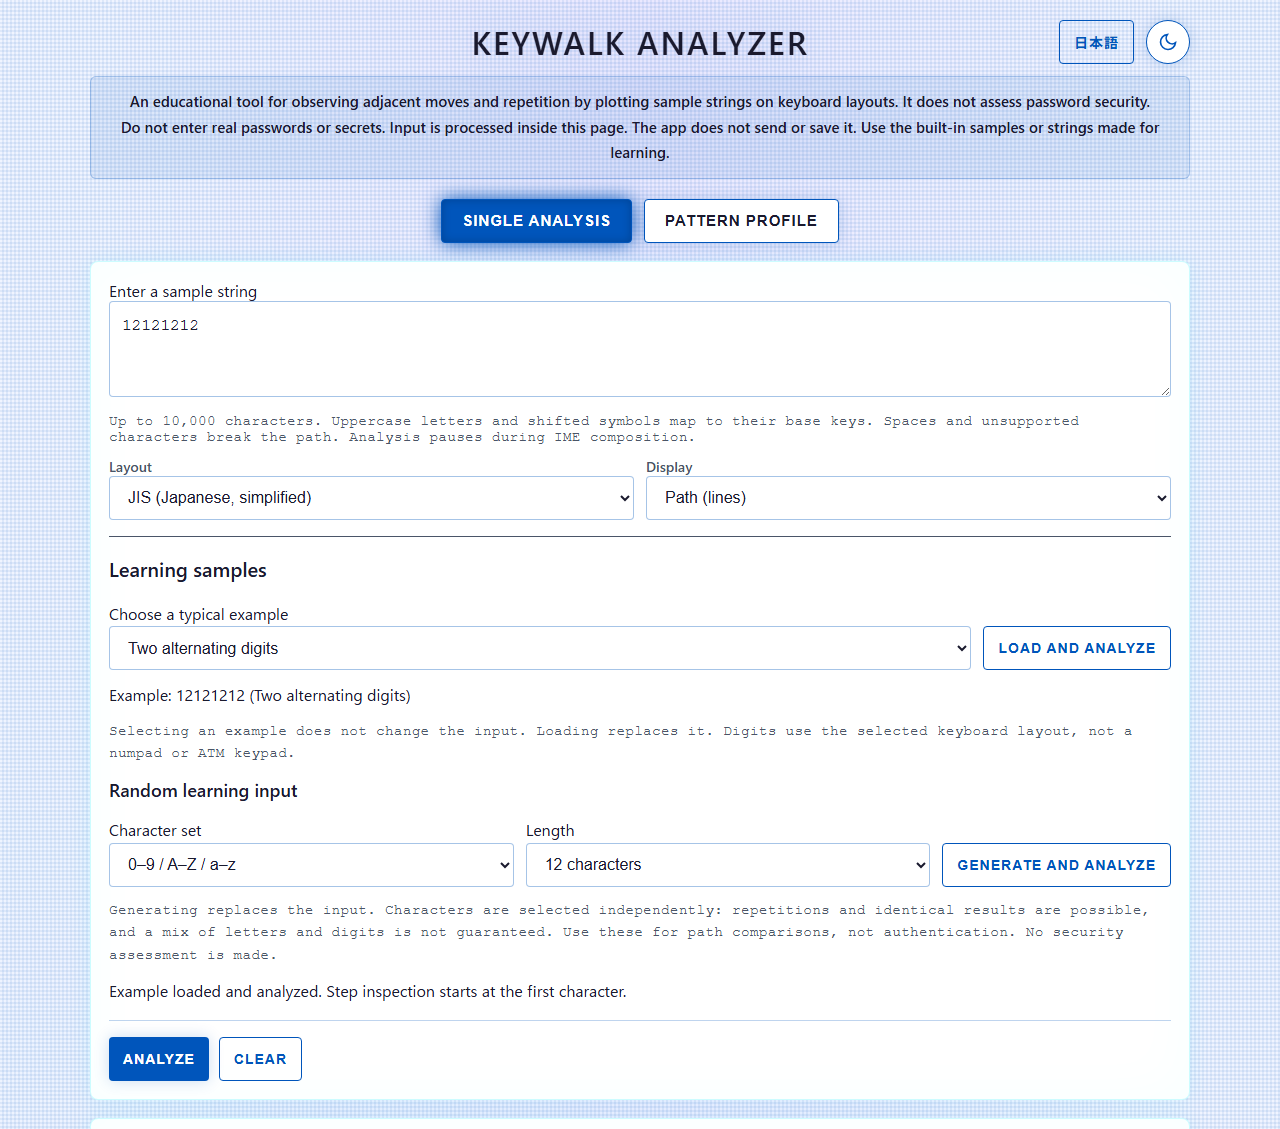
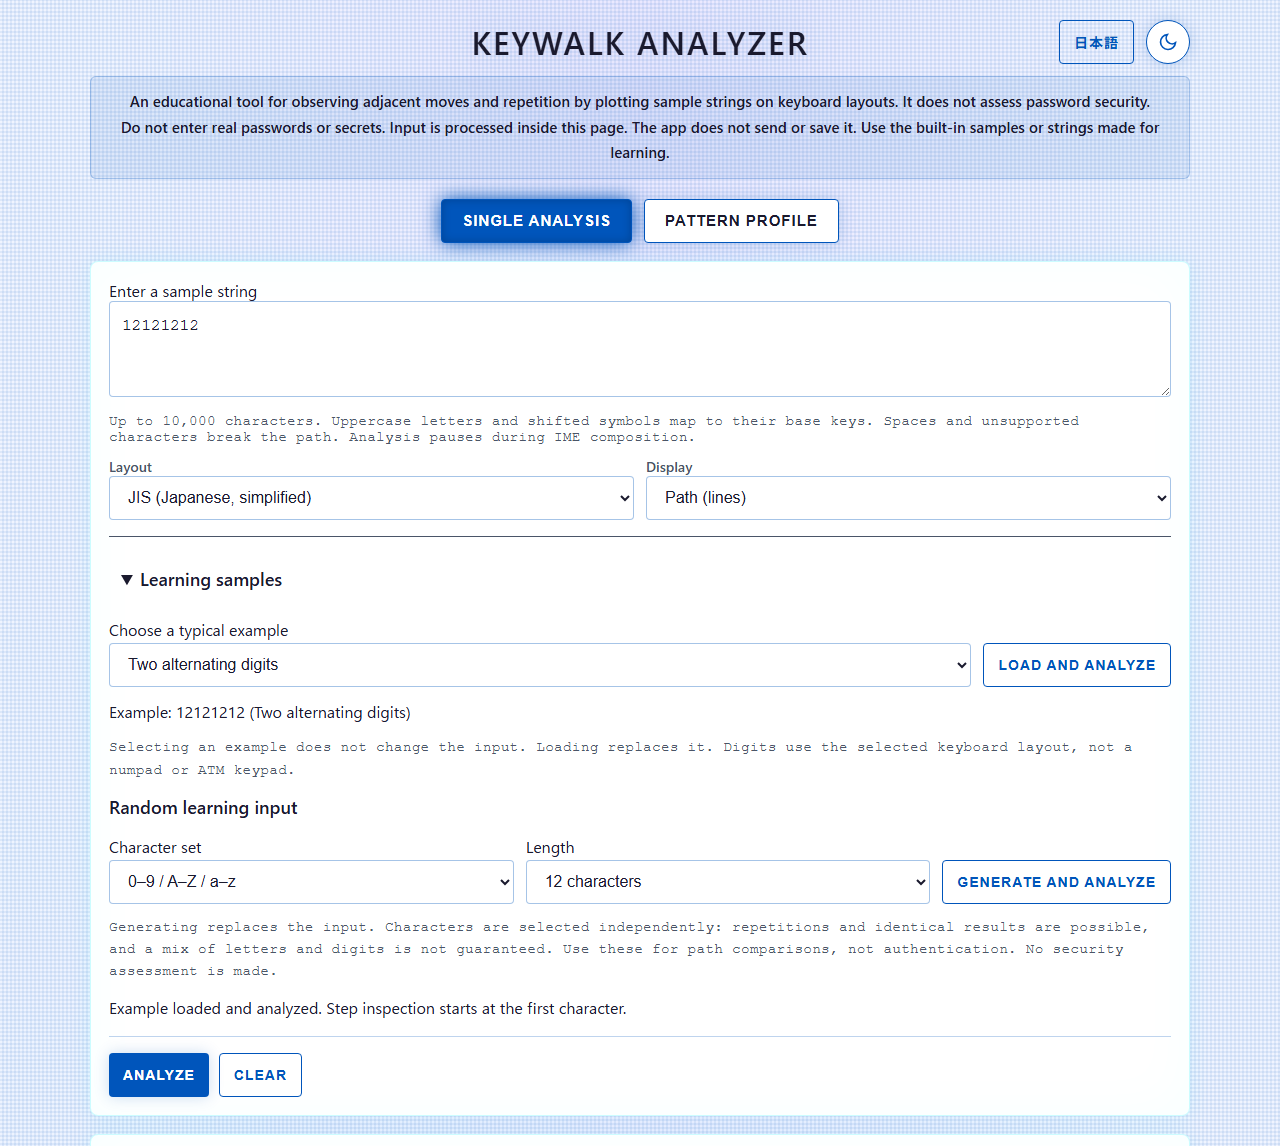
学習用サンプルを初期展開のアコーディオンに変更

diff --git a/test/ui.test.js b/test/ui.test.js
@@ -3,6 +3,16 @@ const assert = require('node:assert/strict');
 const fs = require('node:fs');
 const path = require('node:path');
 const read = name => fs.readFileSync(path.join(__dirname,'..',name),'utf8');
+test('learning samples use a native accordion that starts open and contains both sample controls', () => {
+  const html = read('index.html');
+  const panel = html.match(/<details class="sample-panel learning-section" id="learning-samples" open>([\s\S]*?)<\/details>/);
+  assert.ok(panel);
+  assert.match(panel[1], /^\s*<summary id="sample-heading"><\/summary>/);
+  for (const id of ['sample-select', 'load-sample', 'random-kind', 'random-length', 'generate-sample', 'sample-feedback']) {
+    assert.ok(panel[1].includes('id="' + id + '"'));
+  }
+  assert.doesNotMatch(panel[1], /id="(?:analyze|clear)"/);
+});
 test('samples use labelled selects and separate explicit load and generate buttons', () => {
   const html = read('index.html'), css = read('style.css');
   for (const id of ['sample-select','random-kind','random-length']) {

diff --git a/index.html b/index.html
@@ -74,8 +74,8 @@
           </label>
         </div>
 
-        <section class="sample-panel learning-section" aria-labelledby="sample-heading">
-          <h2 id="sample-heading"></h2>
+        <details class="sample-panel learning-section" id="learning-samples" open>
+          <summary id="sample-heading"></summary>
           <label id="sample-label" for="sample-select"></label>
           <div class="sample-picker">
             <select id="sample-select" aria-describedby="sample-preview sample-note"></select>
@@ -91,7 +91,7 @@
           </div>
           <p id="random-note" class="hint"></p>
           <p id="sample-feedback" role="status" aria-live="polite" aria-atomic="true"></p>
-        </section>
+        </details>
 
         <div class="action-buttons">
           <button id="analyze">分析する</button>

diff --git a/style.css b/style.css
@@ -585,6 +585,7 @@ footer a:hover{
 
 .learning-section{min-width:0;overflow-wrap:anywhere;line-height:1.6}
 .sample-panel{margin-top:1rem;border-top:1px solid var(--text-muted);padding-top:1rem}
+.sample-panel[open] > summary{margin-bottom:.75rem}
 .sample-picker,.random-controls{display:grid;grid-template-columns:minmax(0,1fr);gap:.75rem;align-items:end}
 .sample-picker select,.random-controls select{width:100%;min-width:0;min-height:44px}
 .sample-picker button,.random-controls button{min-height:44px;white-space:normal}

diff --git a/README.md b/README.md
@@ -269,6 +269,7 @@ python -m http.server 8000 --bind 127.0.0.1
 #### 典型例とランダム生成
 
 サンプル欄では13件を「歩きと往復」「数字と反復」「単語と混在」「経路の区切り」に分けています。
+「学習用サンプル」は初期状態で開いています。見出しのクリック・タップ、またはフォーカス時のEnter・Spaceで開閉できます。閉じても入力・選択・分析結果は変わりません。
 典型例の選択だけでは入力を変更せず、読み込む文字列をプレビューします。
 「読み込んで分析」は単体入力を置き換えて分析し、逐次表示の位置を最初の文字に戻します。
 癖プロファイルの入力と結果は変更しません。

diff --git a/README.en.md b/README.en.md
@@ -231,6 +231,7 @@ Open `http://127.0.0.1:8000/`.
 #### Typical examples and random generation
 
 The sample selector groups 13 examples into walks and return paths, digits and repetition, words and mixed characters, and path breaks.
+Learning samples starts expanded. Click or tap its heading, or focus it and press Enter or Space, to expand or collapse it. Collapsing preserves the input, selections, and analysis results.
 Selecting an example previews its text without changing the input.
 Load and analyze replaces the single input, analyzes it, and returns step inspection to the first character.
 It does not change the Pattern profile input or results.
